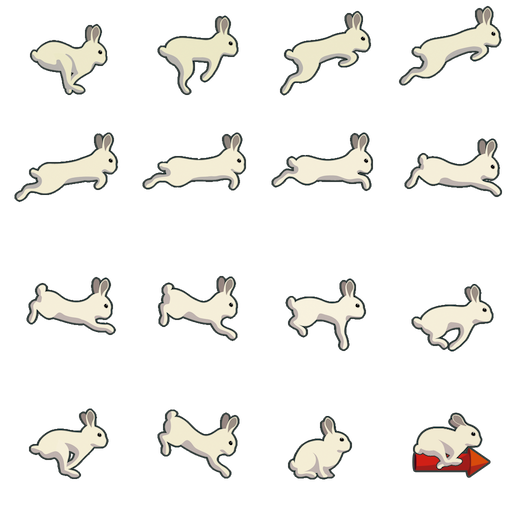
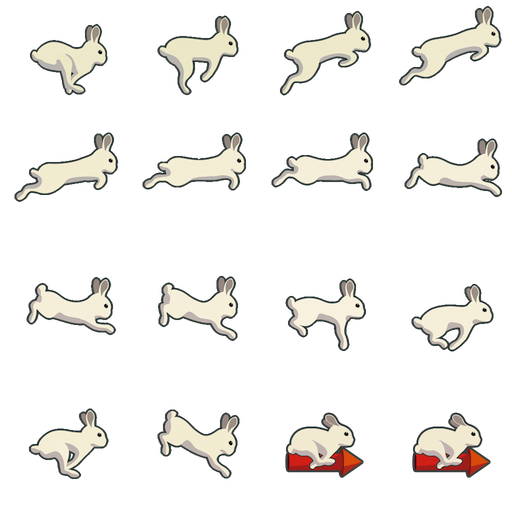
morka: golden rabbit assets

Changed region(s): [[0.5312, 0.7812, 0.7188, 0.9375]]

diff --git a/dgreed/apps/morka/characters.c b/dgreed/apps/morka/characters.c
@@ -30,7 +30,7 @@ CharacterDefaultParams default_characters[character_count] = {
 	{
 	"Ocean king",
 	"rabbit_icon",
-	"rabbit_3",
+	"golden_rabbit",
 	"rabbit",
 	"Swimmer",
 	99,	
